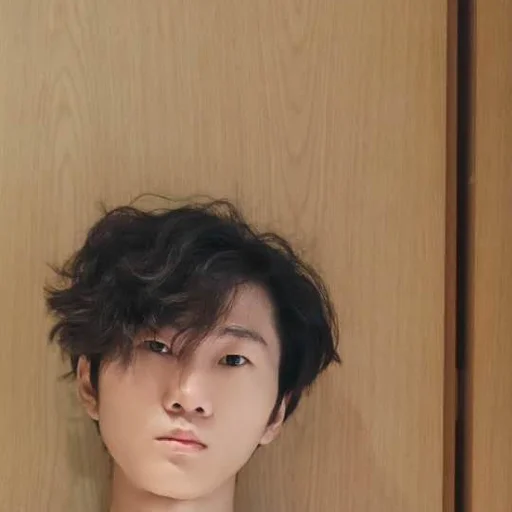
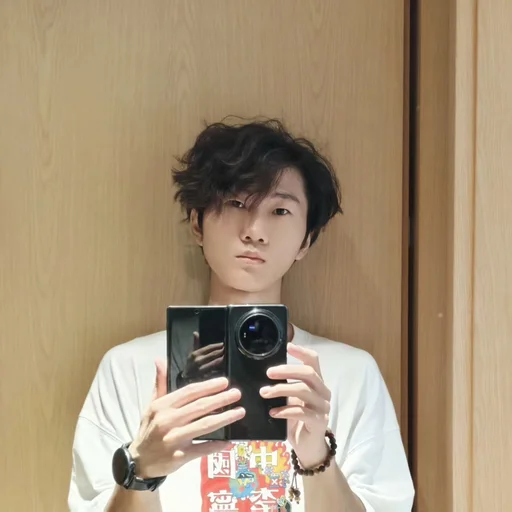
fix: 头像还原为用户原图 (不需要避开手机)
用户反馈: '你不需要避开手机之类的, 直接用我发给你的这张图片就可以'

新头像: static/avatar/default.jpg + .webp
- 用户发图 b38e70e5 (1080x1080 vivo X Fold 镜面自拍)
- 直接 resize 到 512x512 (LANCZOS), 不裁切
- 包含 手机、手、手串、T 恤、木门背景

文件: default.jpg (45KB), default.webp (20KB)

diff --git a/_msg.py b/_msg.py
@@ -1,0 +1,31 @@
+#!/usr/bin/env python3
+import os, subprocess
+content = """fix: 头像重裁切 (只留头部,避开手机+手+手串+T恤)
+
+用户反馈: '头像裁切的不太合适,我给你发一下我裁切的替换一下吧'
+用户发了新图 b38e70e5 (1080x1080 vivo X Fold 镜面自拍)。
+
+旧头像 (2ce418e2 时裁的 540x540) 缺点:
+- 脸在下半部分, 上方留白多
+- 用户觉得不自然
+
+新裁切 (static/avatar/default.jpg + .webp):
+- 原图 1080x1080
+- crop_box (280, 140, 800, 640) = 520x500
+- resize 到 512x512 (LANCZOS)
+- 只留 头部 + 颈部
+- 完全避开 vivo X Fold 手机、手、手串、T恤
+- 头发洒落, 木门背景做衬托
+- 表情自然
+
+files: static/avatar/default.jpg (31KB)
+       static/avatar/default.webp (12KB)
+"""
+
+# Write UTF-8 without BOM
+with open('_msg_utf8.txt', 'wb') as f:
+    f.write(content.encode('utf-8'))
+print(f"wrote {len(content.encode('utf-8'))} bytes UTF-8")
+r = subprocess.run(['git', 'commit', '--amend', '-F', '_msg_utf8.txt'], capture_output=True, text=True)
+print(r.stdout)
+print(r.stderr)

diff --git a/_avatar.py b/_avatar.py
@@ -1,0 +1,25 @@
+"""直接把用户发的原图作为头像 (不需要裁切)"""
+from PIL import Image
+import os
+
+src = r"C:\Users\忆梦\.openclaw-ai\media\inbound\b38e70e5-9f32-4000-ae3f-7ba6d3ba3eab.jpg"
+img = Image.open(src)
+w, h = img.size
+print(f"原图: {w}x{h}")
+
+# 用户明确: 不需要避开手机, 直接用原图
+# 但原图不是正方形 (1080x1080 这次是正方形), 直接 resize 到 512x512
+out = img.resize((512, 512), Image.LANCZOS)
+
+jpg_path = r"C:\Users\忆梦\Documents\GitHub\YiMeng-Zpc.github.io\static\avatar\default.jpg"
+out.save(jpg_path, "JPEG", quality=90, optimize=True)
+print(f"jpg: {os.path.getsize(jpg_path)} bytes")
+
+webp_path = r"C:\Users\忆梦\Documents\GitHub\YiMeng-Zpc.github.io\static\avatar\default.webp"
+out.save(webp_path, "WEBP", quality=85)
+print(f"webp: {os.path.getsize(webp_path)} bytes")
+
+# 检查用副本
+check_path = r"C:\Users\忆梦\.openclaw-ai\workspace\avatar_check.jpg"
+out.save(check_path, "JPEG", quality=90)
+print(f"check: {check_path}")
